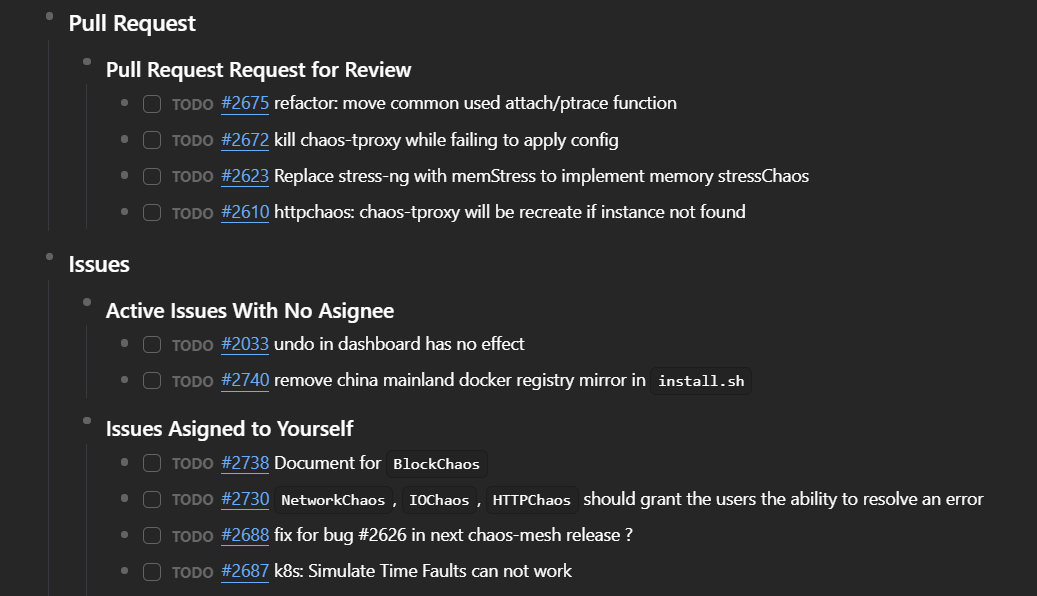
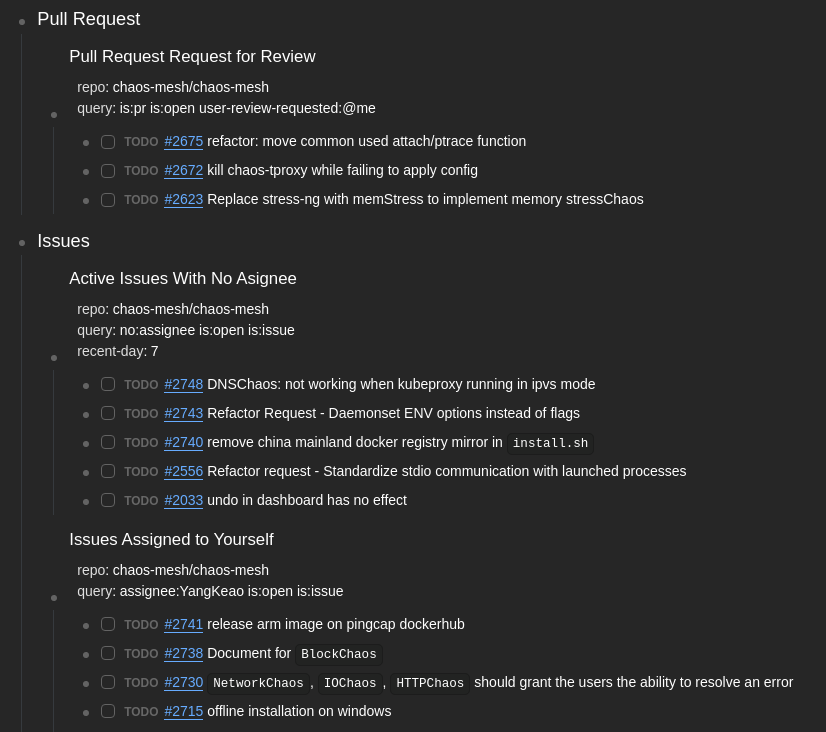
use attributions to pass config

Changed region(s): [[0.0303, 0.0, 0.9685, 0.9966], [0.0908, 0.2114, 0.1211, 0.2416], [0.0605, 0.4832, 0.0908, 0.5134]]

diff --git a/src/index.ts b/src/index.ts
@@ -1,7 +1,7 @@
 import '@logseq/libs'
 import {BlockEntity} from '@logseq/libs/dist/LSPlugin'
 
-import '@js-joda/core'
+import parse from 'parse-duration'
 import { DateTimeFormatter, Duration, LocalDate } from '@js-joda/core'
 
 import {parseGithubUrl, GithubClient} from './github'
@@ -124,7 +124,7 @@ const renderGithubIssuesToBlocks = async (repo: string, query: string) => {
     })
 }
 
-function main () {
+async function main () {
     logseq.Editor.registerSlashCommand('Github Url', github_url_slash_command)
     logseq.Editor.registerSlashCommand('Github Last Week Pull Request', github_lastweek_pull_request_slash_command)
 
@@ -138,25 +138,40 @@ function main () {
         })
     })
 
-    logseq.settings?.issue_block?.forEach(async task => {
-        let {block_uuid, sync_period, repo, query, recent_day} = task
-        let sync_duration = Duration.parse(sync_period);
+    let sync_period = parse(logseq.settings["sync_period"] || "5m", "ms");
 
-        const sync_issues = async () => {
+    const sync_issues = async () => {
+        const blocks = (await logseq.DB.datascriptQuery(`
+        [
+            :find (pull ?b [*])
+            :where
+            [?b :block/properties ?p]
+            [(get ?p :repo) ?r]
+            [(get ?p :query) ?q]
+            [(not= ?r "nil")]
+            [(not= ?q "nil")]
+        ]
+        `)).map(block_array => block_array[0]);
+
+        blocks.forEach(async (block: any) => {
+            // TODO: get uuid in a better way
+            let block_uuid = block.uuid.$uuid$
+            let repo = block.properties.repo
+            let query = block.properties.query
+            let recent_day = block.properties["recent-day"] || 0
+
             console.log("logseq-github: sync issues", `uuid: ${block_uuid}`)
 
             if (recent_day > 0) {
-                const pastDay = parseInt(recent_day)
-                if (pastDay > 0) {
-                    const past = LocalDate.now().atStartOfDay().minusDays(pastDay)
-                    query += ` updated:>=${past.format(DateTimeFormatter.ISO_LOCAL_DATE)}`
-                }
+                const past = LocalDate.now().atStartOfDay().minusDays(recent_day)
+                query += ` updated:>=${past.format(DateTimeFormatter.ISO_LOCAL_DATE)}`
             }
-    
+
             // `includeChildren` will not only get children, but also clear the children cache
             let target_block = await logseq.Editor.getBlock(block_uuid, {
                 includeChildren: true,
             })
+            console.log(target_block)
             const blocks = await renderGithubIssuesToBlocks(repo, query)
 
             let exist_children = target_block.children as Array<BlockEntity> || [] ;
@@ -165,7 +180,7 @@ function main () {
                 if (blocks.find(b => b.properties?.issue_number == child_block.properties?.issueNumber) == undefined) {
                     // TODO: support other merge strategy
                     console.log("logseq-github: remove issue", child_block.properties?.issueNumber)
-                    logseq.Editor.removeBlock(child_block.uuid)
+                    await logseq.Editor.removeBlock(child_block.uuid)
                 }
             }))
             
@@ -176,17 +191,17 @@ function main () {
                 }) == undefined) {
                     // This is a new block
                     console.log("logseq-github: insert issue", block.properties?.issue_number)
-                    logseq.Editor.insertBlock(target_block.uuid, block.content, {
+                    await logseq.Editor.insertBlock(target_block.uuid, block.content, {
                         sibling: false,
                         properties: block.properties,
                     })
                 }
             }))
-        };
-        console.log("logseq-github: setup interval controller for issues", `uuid: ${block_uuid}`)
-        setInterval(sync_issues, sync_duration.toMillis())
-        await sync_issues()
-    })
+        })
+    };
+    console.log("logseq-github: setup interval controller for issues")
+    setInterval(sync_issues, sync_period)
+    await sync_issues();
 }
 
 logseq.ready(main).catch((e) => {

diff --git a/README.md b/README.md
@@ -12,46 +12,41 @@ An example of the settings is like below:
 {
   "disabled": false,
   "github_access_token": "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",
-  "issue_block": [
-    {
-      "block_uuid": "4979c121-ae67-44c8-8831-86a960c96870",
-      "sync_period": "PT5M",
-      "repo": "chaos-mesh/chaos-mesh",
-      "query": "no:assignee is:open is:issue",
-      "recent_day": 7
-    },
-    {
-      "block_uuid": "cde0871a-7bc1-4436-ba3f-b2ed14346161",
-      "sync_period": "PT5M",
-      "repo": "chaos-mesh/chaos-mesh",
-      "query": "assignee:YangKeao is:open is:issue"
-    },
-    {
-      "block_uuid": "61ceaf5e-da95-4c12-bafa-42f7cedcded5",
-      "sync_period": "PT5M",
-      "repo": "chaos-mesh/chaos-mesh",
-      "query": "is:pr is:open user-review-requested:@me"
-    }
-  ]
+  "sync_period": "5m"
 }
 ```
 
 The `github_access_token` is the token to access github API. You can get it in https://github.com/settings/tokens.
 
-Every item in `issue_block` will setup a periodical task to synchronize the selected issues/prs into the block. For every task:
+`sync_period` is the period of synchronization.
 
-`block_uuid` specifies the target block of the synchronization, every issues will be inserted as the children of this block.
+For every block with `repo` and `query` attributions, the plugin will send the query to github API and insert the issue/pr into this block (as children). For example
 
-`sync_period` is the period of synchronization in joda format. For example, `PT5M` will synchronize for every 5 minutes.
+```markdown
+## Pull Request Request for Review
+repo:: chaos-mesh/chaos-mesh
+query:: is:pr is:open user-review-requested:@me
+```
 
-`repo` is the target repo.
+After enabling the plugin, all pull requests waiting for your review will be inserted into the block.
 
-`query` is the search query for github. You can read more about the syntax in [Understanding the search syntax](https://docs.github.com/en/search-github/getting-started-with-searching-on-github/understanding-the-search-syntax
+### Attributions
 
-`recent_day` will only get issues/prs whose updated time is later than "`recent_day`" days ago.
+`repo` represents the target repo.
+
+`query` specifies the search query for github. You can read more about the syntax in [Understanding the search syntax](https://docs.github.com/en/search-github/getting-started-with-searching-on-github/understanding-the-search-syntax
+
+`recent_day` means to get issues/prs whose updated time is later than "`recent_day`" days ago.
+
+### Suggestion
+
+Every inserted block will be equipped with an attribution: `issue-number`, so you may want to hide the attribution from displaying everywhere. Adding following configuration to your `config.edn` will do the trick:
+
+```
+:block-hidden-properties #{:issue-number}
+```
 
 ## TODO
 
-1. Writing these configuration in a global settings is not good.
-2. Support more deletion strategy. Don't remove the block (even if they disappear in the query) in some cases.
-3. Support richer template mechanism (and remove the `Github Last Week Pull Request` slash command, which is hard to use and understand).
+1. Support more deletion strategy. Don't remove the block (even if they disappear in the query) in some cases.
+2. Support richer template mechanism (and remove the `Github Last Week Pull Request` slash command, which is hard to use and understand).
